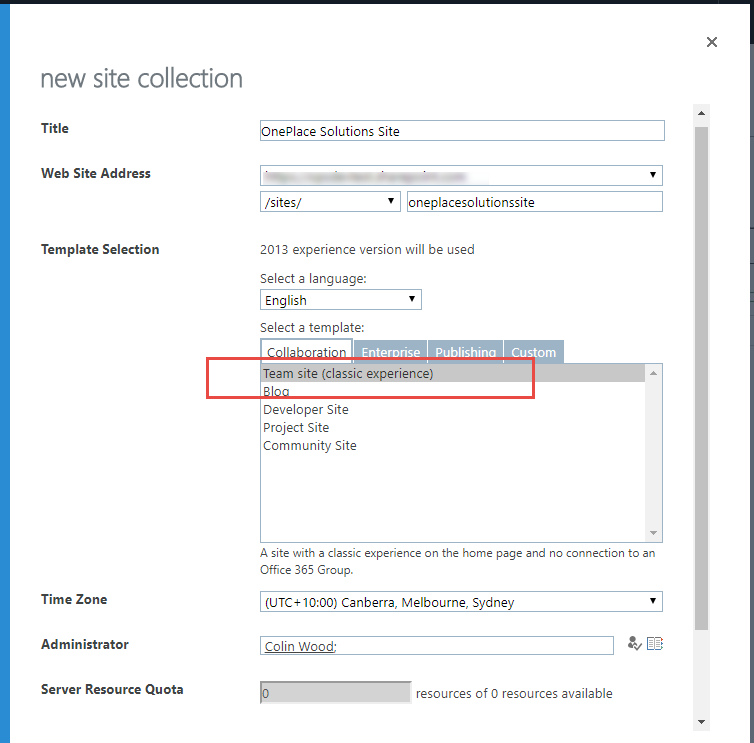
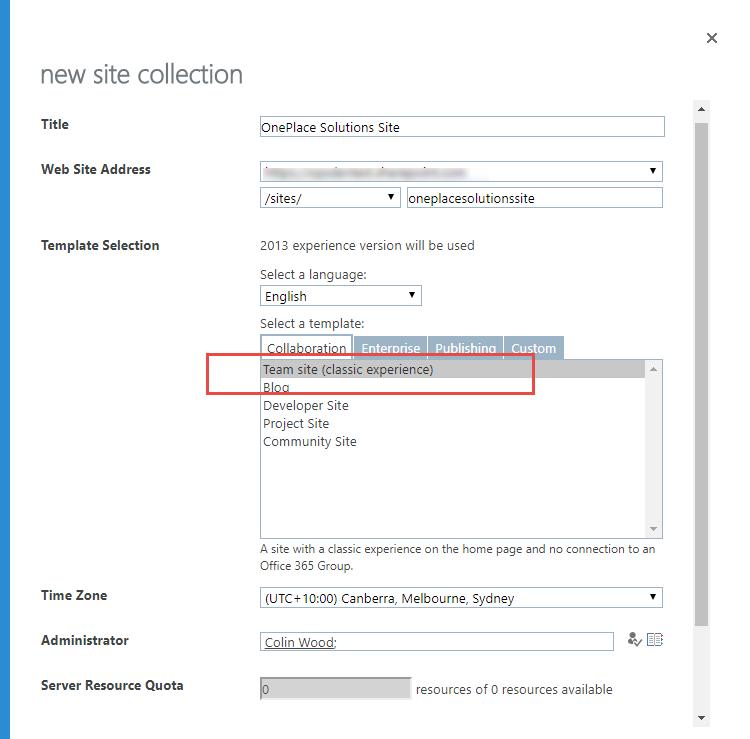
Image and typo adjustmenst

diff --git a/README.md b/README.md
@@ -1,6 +1,6 @@
 ## Pre-requisites
 
-1.  Either of the SharePoint Online, SharePoint 2016 on-premise, SharePoint 2013 on-premise.
+1.  Either SharePoint Online, SharePoint 2016 on-premise, or SharePoint 2013 on-premise.
 
 2.  PowerShell v3.0 or greater installed on your work environment. 
 
